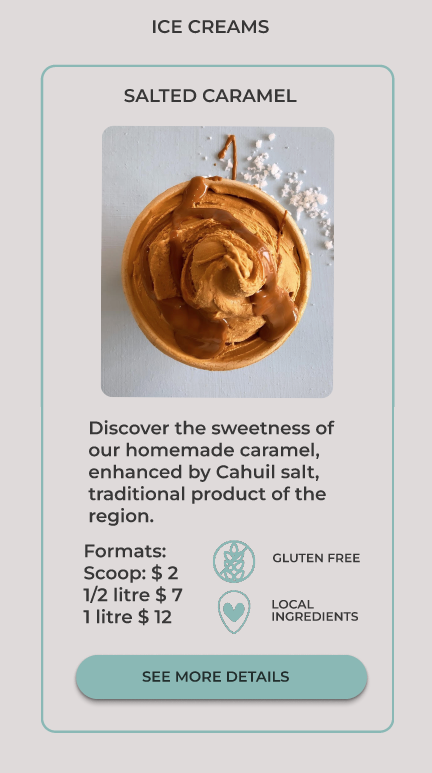
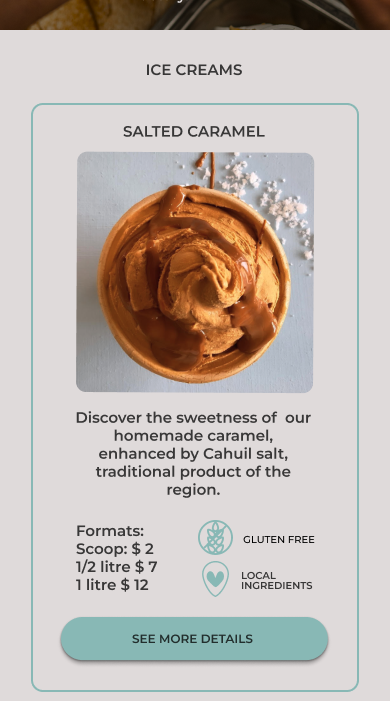
added corrected mockups

diff --git a/src/assets/icons/icons.jsx b/src/assets/icons/icons.jsx
@@ -29,7 +29,7 @@ export function GlutenFree () {
     viewBox="0 0 563 563" 
     fill="none" 
     xmlns="http://www.w3.org/2000/svg">
-        <path d="M98.3934 449.393L450.393 97.3934M324 130C324 157.614 304.972 180 281.5 180C258.028 180 239 157.614 239 130C239 102.386 260 50 281.5 37C302 47 324 102.386 324 130ZM369.944 255.788C351.824 276.627 322.777 281.034 305.064 265.632C287.352 250.231 287.682 220.853 305.801 200.014C323.921 179.176 374.141 153.425 398.896 157.722C407.804 178.72 388.063 234.95 369.944 255.788ZM256.182 200.112C274.324 220.931 274.686 250.308 256.991 265.729C239.295 281.15 210.243 276.775 192.1 255.957C173.958 235.139 155.373 181.848 163.041 157.922C185.065 151.993 238.039 179.294 256.182 200.112ZM370.944 379.953C352.824 400.792 323.777 405.199 306.064 389.797C288.352 374.396 288.682 345.018 306.801 324.179C324.921 303.341 375.141 277.589 399.896 281.887C408.804 302.885 389.063 359.115 370.944 379.953ZM257.182 324.277C275.324 345.095 275.686 374.473 257.991 389.894C240.295 405.315 211.243 400.94 193.1 380.122C174.958 359.304 156.373 306.013 164.041 282.087C186.065 276.158 239.039 303.459 257.182 324.277ZM371.944 503.953C353.824 524.792 324.777 529.199 307.064 513.797C289.352 498.396 289.682 469.018 307.801 448.179C325.921 427.341 376.141 401.589 400.896 405.887C409.804 426.885 390.063 483.115 371.944 503.953ZM258.182 448.277C276.324 469.095 276.686 498.473 258.991 513.894C241.295 529.315 212.243 524.94 194.1 504.122C175.958 483.304 157.373 430.013 165.041 406.087C187.065 400.158 240.039 427.459 258.182 448.277ZM548 281.5C548 428.684 428.684 548 281.5 548C134.316 548 15 428.684 15 281.5C15 134.316 134.316 15 281.5 15C428.684 15 548 134.316 548 281.5Z" stroke="#88B8B5" stroke-width="30"/>
+        <path d="M98.3934 449.393L450.393 97.3934M324 130C324 157.614 304.972 180 281.5 180C258.028 180 239 157.614 239 130C239 102.386 260 50 281.5 37C302 47 324 102.386 324 130ZM369.944 255.788C351.824 276.627 322.777 281.034 305.064 265.632C287.352 250.231 287.682 220.853 305.801 200.014C323.921 179.176 374.141 153.425 398.896 157.722C407.804 178.72 388.063 234.95 369.944 255.788ZM256.182 200.112C274.324 220.931 274.686 250.308 256.991 265.729C239.295 281.15 210.243 276.775 192.1 255.957C173.958 235.139 155.373 181.848 163.041 157.922C185.065 151.993 238.039 179.294 256.182 200.112ZM370.944 379.953C352.824 400.792 323.777 405.199 306.064 389.797C288.352 374.396 288.682 345.018 306.801 324.179C324.921 303.341 375.141 277.589 399.896 281.887C408.804 302.885 389.063 359.115 370.944 379.953ZM257.182 324.277C275.324 345.095 275.686 374.473 257.991 389.894C240.295 405.315 211.243 400.94 193.1 380.122C174.958 359.304 156.373 306.013 164.041 282.087C186.065 276.158 239.039 303.459 257.182 324.277ZM371.944 503.953C353.824 524.792 324.777 529.199 307.064 513.797C289.352 498.396 289.682 469.018 307.801 448.179C325.921 427.341 376.141 401.589 400.896 405.887C409.804 426.885 390.063 483.115 371.944 503.953ZM258.182 448.277C276.324 469.095 276.686 498.473 258.991 513.894C241.295 529.315 212.243 524.94 194.1 504.122C175.958 483.304 157.373 430.013 165.041 406.087C187.065 400.158 240.039 427.459 258.182 448.277ZM548 281.5C548 428.684 428.684 548 281.5 548C134.316 548 15 428.684 15 281.5C15 134.316 134.316 15 281.5 15C428.684 15 548 134.316 548 281.5Z" stroke="#88B8B5" strokeWidth="30"/>
         </svg> )
 }
 
@@ -39,11 +39,11 @@ export function LactoseFree () {
     viewBox="0 0 533 533" 
     fill="none" 
     xmlns="http://www.w3.org/2000/svg">
-        <path d="M268.656 235.196L265.131 233.561L261.761 235.498C255.1 239.329 249.023 245.692 243.737 252.913C238.383 260.226 233.5 268.892 229.372 277.882C221.21 295.654 215.5 315.8 215.5 330.448C215.5 360.038 237.116 385.5 265.5 385.5C293.884 385.5 315.5 360.038 315.5 330.448C315.5 315.783 309.528 294.917 301.259 276.824C297.074 267.668 292.153 258.89 286.819 251.679C281.605 244.63 275.476 238.36 268.656 235.196Z" stroke="#88B8B5" stroke-width="15"/>
-        <circle cx="266.5" cy="266.5" r="251.5" stroke="#88B8B5" stroke-width="30"/>
-        <line x1="83.3934" y1="434.393" x2="435.393" y2="82.3934" stroke="#88B8B5" stroke-width="30"/>
-        <path d="M345.012 151.315L378.137 190.248C381.599 194.317 383.5 199.485 383.5 204.828V326.793V453.093C383.5 464.611 374.8 474.27 363.344 475.47L270.295 485.219C268.761 485.379 267.214 485.382 265.679 485.226L168.729 475.389C157.241 474.223 148.5 464.551 148.5 453.004V326.793V205.222C148.5 199.701 150.53 194.372 154.204 190.251L188.299 151.999C190.209 149.856 191.867 147.5 193.24 144.979L217.456 100.5H220H257H268H309H314.692L341.181 145.91L347.66 142.131L341.181 145.91C342.296 147.821 343.578 149.63 345.012 151.315Z" stroke="#88B8B5" stroke-width="15"/>
-        <path d="M195.474 69.2736C193.476 55.69 204.005 43.5 217.734 43.5H314.194C328.445 43.5 339.106 56.5795 336.232 70.5372L334.585 78.5372C332.432 88.9954 323.225 96.5 312.547 96.5H218.911C207.749 96.5 198.274 88.3168 196.65 77.2736L195.474 69.2736Z" stroke="#88B8B5" stroke-width="15"/>
+        <path d="M268.656 235.196L265.131 233.561L261.761 235.498C255.1 239.329 249.023 245.692 243.737 252.913C238.383 260.226 233.5 268.892 229.372 277.882C221.21 295.654 215.5 315.8 215.5 330.448C215.5 360.038 237.116 385.5 265.5 385.5C293.884 385.5 315.5 360.038 315.5 330.448C315.5 315.783 309.528 294.917 301.259 276.824C297.074 267.668 292.153 258.89 286.819 251.679C281.605 244.63 275.476 238.36 268.656 235.196Z" stroke="#88B8B5" strokeWidth="15"/>
+        <circle cx="266.5" cy="266.5" r="251.5" stroke="#88B8B5" strokeWidth="30"/>
+        <line x1="83.3934" y1="434.393" x2="435.393" y2="82.3934" stroke="#88B8B5" strokeWidth="30"/>
+        <path d="M345.012 151.315L378.137 190.248C381.599 194.317 383.5 199.485 383.5 204.828V326.793V453.093C383.5 464.611 374.8 474.27 363.344 475.47L270.295 485.219C268.761 485.379 267.214 485.382 265.679 485.226L168.729 475.389C157.241 474.223 148.5 464.551 148.5 453.004V326.793V205.222C148.5 199.701 150.53 194.372 154.204 190.251L188.299 151.999C190.209 149.856 191.867 147.5 193.24 144.979L217.456 100.5H220H257H268H309H314.692L341.181 145.91L347.66 142.131L341.181 145.91C342.296 147.821 343.578 149.63 345.012 151.315Z" stroke="#88B8B5" strokeWidth="15"/>
+        <path d="M195.474 69.2736C193.476 55.69 204.005 43.5 217.734 43.5H314.194C328.445 43.5 339.106 56.5795 336.232 70.5372L334.585 78.5372C332.432 88.9954 323.225 96.5 312.547 96.5H218.911C207.749 96.5 198.274 88.3168 196.65 77.2736L195.474 69.2736Z" stroke="#88B8B5" strokeWidth="15"/>
         </svg> )
 }
 
@@ -53,37 +53,39 @@ export function SugarFree () {
     viewBox="0 0 533 533" 
     fill="none" 
     xmlns="http://www.w3.org/2000/svg">
-        <circle cx="266.5" cy="266.5" r="251.5" stroke="#88B8B5" stroke-width="30"/>
-        <line x1="83.3934" y1="434.393" x2="435.393" y2="82.3934" stroke="#88B8B5" stroke-width="30"/>
-        <rect x="93.135" y="262.528" width="127" height="127" rx="12.5" transform="rotate(7.16531 93.135 262.528)" stroke="#88B8B5" stroke-width="15"/>
-        <path fill-rule="evenodd" clip-rule="evenodd" d="M254.363 257.977L153.691 245.321C150.164 244.878 147.664 241.659 148.107 238.132C148.551 234.604 151.77 232.104 155.297 232.548L255.969 245.204C270.818 247.07 281.538 259.068 279.912 272.002L270.182 349.4C269.673 353.449 265.977 356.32 261.927 355.811C257.878 355.301 255.007 351.606 255.516 347.556L265.246 270.158C265.985 264.279 261.113 258.826 254.363 257.977Z" fill="#88B8B5"/>
-        <path fill-rule="evenodd" clip-rule="evenodd" d="M159.934 237.472C161.579 241.19 159.899 245.538 156.181 247.183L102.561 270.91C98.8434 272.555 94.4958 270.875 92.8506 267.157C91.2055 263.439 92.8857 259.091 96.6036 257.446L150.224 233.719C153.942 232.074 158.289 233.754 159.934 237.472Z" fill="#88B8B5"/>
-        <line x1="215.493" y1="285.564" x2="262.186" y2="251.564" stroke="#88B8B5" stroke-width="15"/>
-        <path fill-rule="evenodd" clip-rule="evenodd" d="M268.292 343.906C270.914 347.113 270.439 351.838 267.231 354.459L208.072 402.811C204.864 405.432 200.14 404.957 197.518 401.75C194.897 398.543 195.372 393.818 198.579 391.197L257.739 342.845C260.946 340.224 265.671 340.699 268.292 343.906Z" fill="#88B8B5"/>
-        <rect x="279.568" y="310.844" width="127" height="127" rx="12.5" transform="rotate(-8.88138 279.568 310.844)" stroke="#88B8B5" stroke-width="15"/>
-        <path fill-rule="evenodd" clip-rule="evenodd" d="M433.256 261.903L333.008 277.568C329.496 278.117 326.204 275.715 325.655 272.202C325.106 268.69 327.508 265.398 331.021 264.849L431.269 249.184C446.055 246.873 459.674 255.44 461.686 268.319L473.73 345.391C474.36 349.424 471.602 353.204 467.569 353.834C463.536 354.464 459.756 351.706 459.126 347.673L447.082 270.601C446.168 264.747 439.977 260.853 433.256 261.903Z" fill="#88B8B5"/>
-        <path fill-rule="evenodd" clip-rule="evenodd" d="M336.839 268.3C339.447 271.418 339.034 276.06 335.916 278.669L290.944 316.293C287.826 318.902 283.183 318.489 280.574 315.371C277.966 312.253 278.379 307.61 281.497 305.001L326.469 267.377C329.587 264.768 334.23 265.181 336.839 268.3Z" fill="#88B8B5"/>
-        <line x1="403.526" y1="299.16" x2="439.002" y2="253.578" stroke="#88B8B5" stroke-width="15"/>
-        <path fill-rule="evenodd" clip-rule="evenodd" d="M470.395 340.634C473.801 342.991 474.651 347.664 472.293 351.069L428.804 413.89C426.446 417.296 421.774 418.145 418.368 415.788C414.962 413.43 414.113 408.758 416.47 405.352L459.96 342.531C462.317 339.126 466.99 338.276 470.395 340.634Z" fill="#88B8B5"/>
-        <rect x="228.662" y="132.553" width="127" height="127" rx="12.5" transform="rotate(-9.75347 228.662 132.553)" stroke="#88B8B5" stroke-width="15"/>
-        <path fill-rule="evenodd" clip-rule="evenodd" d="M381.588 81.2787L281.59 98.4677C278.086 99.07 274.758 96.7179 274.155 93.2142C273.553 89.7105 275.905 86.382 279.409 85.7798L379.407 68.5907C394.157 66.0554 407.904 74.4144 410.112 87.2612L423.327 164.141C424.019 168.163 421.318 171.985 417.296 172.677C413.273 173.368 409.451 170.668 408.76 166.645L395.545 89.7653C394.541 83.9258 388.292 80.1262 381.588 81.2787Z" fill="#88B8B5"/>
-        <path fill-rule="evenodd" clip-rule="evenodd" d="M285.278 89.1416C287.934 92.2198 287.592 96.8682 284.514 99.5241L240.12 137.828C237.041 140.484 232.393 140.142 229.737 137.064C227.081 133.986 227.423 129.337 230.502 126.681L274.896 88.3771C277.974 85.7211 282.623 86.0635 285.278 89.1416Z" fill="#88B8B5"/>
-        <line x1="352.428" y1="118.984" x2="387.206" y2="72.8664" stroke="#88B8B5" stroke-width="15"/>
-        <path fill-rule="evenodd" clip-rule="evenodd" d="M419.921 159.435C423.362 161.74 424.282 166.399 421.977 169.84L379.449 233.316C377.143 236.757 372.484 237.677 369.043 235.372C365.602 233.066 364.682 228.408 366.987 224.967L409.515 161.491C411.821 158.05 416.479 157.129 419.921 159.435Z" fill="#88B8B5"/>
+        <circle cx="266.5" cy="266.5" r="251.5" stroke="#88B8B5" strokeWidth="30"/>
+        <line x1="83.3934" y1="434.393" x2="435.393" y2="82.3934" stroke="#88B8B5" strokeWidth="30"/>
+        <rect x="93.135" y="262.528" width="127" height="127" rx="12.5" transform="rotate(7.16531 93.135 262.528)" stroke="#88B8B5" strokeWidth="15"/>
+        <path fillRule="evenodd" clipRule="evenodd" d="M254.363 257.977L153.691 245.321C150.164 244.878 147.664 241.659 148.107 238.132C148.551 234.604 151.77 232.104 155.297 232.548L255.969 245.204C270.818 247.07 281.538 259.068 279.912 272.002L270.182 349.4C269.673 353.449 265.977 356.32 261.927 355.811C257.878 355.301 255.007 351.606 255.516 347.556L265.246 270.158C265.985 264.279 261.113 258.826 254.363 257.977Z" fill="#88B8B5"/>
+        <path fillRule="evenodd" clipRule="evenodd" d="M159.934 237.472C161.579 241.19 159.899 245.538 156.181 247.183L102.561 270.91C98.8434 272.555 94.4958 270.875 92.8506 267.157C91.2055 263.439 92.8857 259.091 96.6036 257.446L150.224 233.719C153.942 232.074 158.289 233.754 159.934 237.472Z" fill="#88B8B5"/>
+        <line x1="215.493" y1="285.564" x2="262.186" y2="251.564" stroke="#88B8B5" strokeWidth="15"/>
+        <path fillRule="evenodd" clipRule="evenodd" d="M268.292 343.906C270.914 347.113 270.439 351.838 267.231 354.459L208.072 402.811C204.864 405.432 200.14 404.957 197.518 401.75C194.897 398.543 195.372 393.818 198.579 391.197L257.739 342.845C260.946 340.224 265.671 340.699 268.292 343.906Z" fill="#88B8B5"/>
+        <rect x="279.568" y="310.844" width="127" height="127" rx="12.5" transform="rotate(-8.88138 279.568 310.844)" stroke="#88B8B5" strokeWidth="15"/>
+        <path fillRule="evenodd" clipRule="evenodd" d="M433.256 261.903L333.008 277.568C329.496 278.117 326.204 275.715 325.655 272.202C325.106 268.69 327.508 265.398 331.021 264.849L431.269 249.184C446.055 246.873 459.674 255.44 461.686 268.319L473.73 345.391C474.36 349.424 471.602 353.204 467.569 353.834C463.536 354.464 459.756 351.706 459.126 347.673L447.082 270.601C446.168 264.747 439.977 260.853 433.256 261.903Z" fill="#88B8B5"/>
+        <path fillRule="evenodd" clipRule="evenodd" d="M336.839 268.3C339.447 271.418 339.034 276.06 335.916 278.669L290.944 316.293C287.826 318.902 283.183 318.489 280.574 315.371C277.966 312.253 278.379 307.61 281.497 305.001L326.469 267.377C329.587 264.768 334.23 265.181 336.839 268.3Z" fill="#88B8B5"/>
+        <line x1="403.526" y1="299.16" x2="439.002" y2="253.578" stroke="#88B8B5" strokeWidth="15"/>
+        <path fillRule="evenodd" clipRule="evenodd" d="M470.395 340.634C473.801 342.991 474.651 347.664 472.293 351.069L428.804 413.89C426.446 417.296 421.774 418.145 418.368 415.788C414.962 413.43 414.113 408.758 416.47 405.352L459.96 342.531C462.317 339.126 466.99 338.276 470.395 340.634Z" fill="#88B8B5"/>
+        <rect x="228.662" y="132.553" width="127" height="127" rx="12.5" transform="rotate(-9.75347 228.662 132.553)" stroke="#88B8B5" strokeWidth="15"/>
+        <path fillRule="evenodd" clipRule="evenodd" d="M381.588 81.2787L281.59 98.4677C278.086 99.07 274.758 96.7179 274.155 93.2142C273.553 89.7105 275.905 86.382 279.409 85.7798L379.407 68.5907C394.157 66.0554 407.904 74.4144 410.112 87.2612L423.327 164.141C424.019 168.163 421.318 171.985 417.296 172.677C413.273 173.368 409.451 170.668 408.76 166.645L395.545 89.7653C394.541 83.9258 388.292 80.1262 381.588 81.2787Z" fill="#88B8B5"/>
+        <path fillRule="evenodd" clipRule="evenodd" d="M285.278 89.1416C287.934 92.2198 287.592 96.8682 284.514 99.5241L240.12 137.828C237.041 140.484 232.393 140.142 229.737 137.064C227.081 133.986 227.423 129.337 230.502 126.681L274.896 88.3771C277.974 85.7211 282.623 86.0635 285.278 89.1416Z" fill="#88B8B5"/>
+        <line x1="352.428" y1="118.984" x2="387.206" y2="72.8664" stroke="#88B8B5" strokeWidth="15"/>
+        <path fillRule="evenodd" clipRule="evenodd" d="M419.921 159.435C423.362 161.74 424.282 166.399 421.977 169.84L379.449 233.316C377.143 236.757 372.484 237.677 369.043 235.372C365.602 233.066 364.682 228.408 366.987 224.967L409.515 161.491C411.821 158.05 416.479 157.129 419.921 159.435Z" fill="#88B8B5"/>
         </svg>)
 }
 
 export function Vegan () {
     return (<svg 
     width="40" 
-    viewBox="0 0 538 419" 
+    viewBox="0 0 538 533" 
     fill="none" 
     xmlns="http://www.w3.org/2000/svg">
-        <path d="M271.465 159C235.79 101.032 141.472 51.167 86.7222 57.3607C59.6458 113.162 84.4725 250.979 120.148 308.947C155.823 366.915 214.105 395.127 262 364" stroke="#88B8B5" stroke-width="15"/>
-        <path d="M458.308 59.5344L456.202 55.9277L452.114 55.7941C435.459 55.25 416.008 60.3522 396.033 68.7189C375.939 77.1355 354.754 89.0957 334.455 102.861C294.027 130.276 256.155 165.514 237.214 195.476C199.326 255.412 207.713 332.89 259.657 367.566C311.602 402.242 383.897 378.624 421.785 318.689C440.735 288.712 457.147 236.92 465.325 186.907C469.431 161.792 471.521 136.779 470.742 114.807C469.971 93.0657 466.367 73.3384 458.308 59.5344Z" stroke="#88B8B5" stroke-width="15"/>
-        <path d="M358.586 190.026C360.124 187.126 363.803 186.147 366.58 187.897C369.02 189.435 369.908 192.565 368.638 195.155L325.216 283.76C324.821 284.566 324.34 285.327 323.783 286.03L263.415 362.096C261.631 364.345 258.438 364.889 256.01 363.358C253.235 361.609 252.539 357.866 254.501 355.236L310.095 280.714C310.934 279.589 311.686 278.401 312.344 277.161L358.586 190.026Z" stroke="#88B8B5" stroke-width="15"/>
-        <path d="M216.721 267L163.59 194.874C161.558 192.115 161.968 188.26 164.536 185.991V185.991C167.436 183.428 171.907 183.89 174.222 186.992L216.721 243.95" stroke="#88B8B5" stroke-width="15"/>
-        </svg> )
+        <path d="M271.465 230C235.79 172.032 141.472 122.167 86.7222 128.361C59.6458 184.162 84.4725 321.979 120.148 379.947C155.823 437.915 214.105 466.127 262 435" stroke="#88B8B5" strokeWidth="15"/>
+        <path d="M458.308 130.534L456.202 126.928L452.114 126.794C435.459 126.25 416.008 131.352 396.033 139.719C375.939 148.136 354.754 160.096 334.455 173.861C294.027 201.276 256.155 236.514 237.214 266.476C199.326 326.412 207.713 403.89 259.657 438.566C311.602 473.242 383.897 449.624 421.785 389.689C440.735 359.712 457.147 307.92 465.325 257.907C469.431 232.792 471.521 207.779 470.742 185.807C469.971 164.066 466.367 144.338 458.308 130.534Z" stroke="#88B8B5" strokeWidth="15"/>
+        <path d="M358.586 261.026C360.124 258.126 363.803 257.147 366.58 258.897C369.02 260.435 369.908 263.565 368.638 266.155L325.216 354.76C324.821 355.566 324.34 356.327 323.783 357.03L263.415 433.096C261.631 435.345 258.438 435.889 256.01 434.358C253.235 432.609 252.539 428.866 254.501 426.236L310.095 351.714C310.934 350.589 311.686 349.401 312.344 348.161L358.586 261.026Z" stroke="#88B8B5" strokeWidth="15"/>
+        <path d="M216.721 338L163.59 265.874C161.558 263.115 161.968 259.26 164.536 256.991V256.991C167.436 254.428 171.907 254.89 174.222 257.992L216.721 314.95" stroke="#88B8B5" strokeWidth="15"/>
+        <circle cx="271.5" cy="266.5" r="251.5" stroke="#88B8B5" strokeWidth="30"/>
+        </svg>
+        )
 }
 
 export function LocalIngredient () {
@@ -92,10 +94,10 @@ export function LocalIngredient () {
     viewBox="0 0 286 382" 
     fill="none" 
     xmlns="http://www.w3.org/2000/svg">
-        <path d="M139.623 372.488L142.721 373.734L145.72 372.266C180.175 355.395 213.098 313.728 237.238 268.95C261.45 224.04 277.978 173.852 278.095 138.283C278.333 66.2517 217.832 8.16642 143.603 7.92112C69.3743 7.67583 8.49044 65.36 8.25241 137.391C8.1348 172.98 25.0893 225.122 49.3531 271.071C61.5566 294.181 75.7904 316.076 91.0043 333.856C106.125 351.527 122.669 365.67 139.623 372.488Z" stroke="#88B8B5" stroke-width="15"/>
+        <path d="M139.623 372.488L142.721 373.734L145.72 372.266C180.175 355.395 213.098 313.728 237.238 268.95C261.45 224.04 277.978 173.852 278.095 138.283C278.333 66.2517 217.832 8.16642 143.603 7.92112C69.3743 7.67583 8.49044 65.36 8.25241 137.391C8.1348 172.98 25.0893 225.122 49.3531 271.071C61.5566 294.181 75.7904 316.076 91.0043 333.856C106.125 351.527 122.669 365.67 139.623 372.488Z" stroke="#88B8B5" strokeWidth="15"/>
         <path d="M74.984 197.98C61.7546 185.623 57.801 161.134 66.1534 143.282C74.5057 125.43 92.0012 120.975 105.231 133.332C116.954 144.281 142.373 215.287 147.02 246.74C147.96 253.101 145.335 258.982 140.641 257.612C122.873 252.427 86.3385 208.585 74.984 197.98Z" fill="#88B8B5"/>
-        <path fill-rule="evenodd" clip-rule="evenodd" d="M68.4705 211.902C48.4897 193.239 43.5973 157.662 55.1386 132.994C66.68 108.326 91.7631 100.747 111.744 119.41C114.941 122.396 117.675 126.448 119.817 130.026C122.101 133.842 124.398 138.295 126.634 143.027C131.111 152.506 135.793 164.065 140.149 176.018C148.701 199.484 156.879 226.892 159.561 245.05C160.621 252.226 159.839 260.056 156.558 266.16C152.979 272.819 146.652 276.698 139.19 274.52C132.386 272.535 125.088 267.401 118.697 262.158C112.009 256.672 104.988 249.939 98.4357 243.305C91.9286 236.716 85.6498 229.983 80.4059 224.36L80.2379 224.18C74.734 218.278 70.8034 214.08 68.4705 211.902ZM66.1534 143.282C57.801 161.134 61.7546 185.623 74.984 197.98C77.8426 200.65 82.2971 205.427 87.6464 211.163C103.545 228.21 127.346 253.733 140.641 257.612C145.335 258.982 147.96 253.101 147.02 246.74C142.373 215.287 116.954 144.281 105.231 133.332C92.0012 120.975 74.5057 125.43 66.1534 143.282Z" fill="#88B8B5"/>
+        <path fillRule="evenodd" clipRule="evenodd" d="M68.4705 211.902C48.4897 193.239 43.5973 157.662 55.1386 132.994C66.68 108.326 91.7631 100.747 111.744 119.41C114.941 122.396 117.675 126.448 119.817 130.026C122.101 133.842 124.398 138.295 126.634 143.027C131.111 152.506 135.793 164.065 140.149 176.018C148.701 199.484 156.879 226.892 159.561 245.05C160.621 252.226 159.839 260.056 156.558 266.16C152.979 272.819 146.652 276.698 139.19 274.52C132.386 272.535 125.088 267.401 118.697 262.158C112.009 256.672 104.988 249.939 98.4357 243.305C91.9286 236.716 85.6498 229.983 80.4059 224.36L80.2379 224.18C74.734 218.278 70.8034 214.08 68.4705 211.902ZM66.1534 143.282C57.801 161.134 61.7546 185.623 74.984 197.98C77.8426 200.65 82.2971 205.427 87.6464 211.163C103.545 228.21 127.346 253.733 140.641 257.612C145.335 258.982 147.96 253.101 147.02 246.74C142.373 215.287 116.954 144.281 105.231 133.332C92.0012 120.975 74.5057 125.43 66.1534 143.282Z" fill="#88B8B5"/>
         <path d="M174.838 137.923C186.687 123.031 204.261 123.616 214.091 139.23C223.921 154.843 222.283 179.574 210.434 194.466C200.263 207.249 165.502 251.39 146.636 259.028C141.737 261.012 137.97 255.456 138.711 248.387C141.886 218.113 164.591 150.801 174.838 137.923Z" fill="#88B8B5"/>
-        <path fill-rule="evenodd" clip-rule="evenodd" d="M166.697 124.991C183.44 103.949 208.946 104.141 223.551 127.341C238.156 150.54 235.318 186.355 218.575 207.397C218.314 207.726 218.035 208.076 217.74 208.448C212.33 215.253 201.335 229.084 189.291 242.367C182.942 249.371 176.135 256.407 169.561 262.267C163.176 267.96 156.221 273.266 149.72 275.898C143.021 278.611 136.274 276.214 131.658 269.82C127.219 263.672 125.472 254.905 126.366 246.382C128.24 228.513 135.405 202.113 142.839 179.649C146.652 168.129 150.747 157.005 154.634 147.774C158.255 139.176 162.473 130.299 166.697 124.991ZM214.091 139.23C204.261 123.616 186.687 123.031 174.838 137.923C164.591 150.801 141.886 218.113 138.711 248.387C137.97 255.456 141.737 261.012 146.636 259.028C165.026 251.582 198.521 209.451 209.618 195.491C209.905 195.13 210.177 194.788 210.434 194.466C222.283 179.574 223.921 154.843 214.091 139.23Z" fill="#88B8B5"/>
+        <path fillRule="evenodd" clipRule="evenodd" d="M166.697 124.991C183.44 103.949 208.946 104.141 223.551 127.341C238.156 150.54 235.318 186.355 218.575 207.397C218.314 207.726 218.035 208.076 217.74 208.448C212.33 215.253 201.335 229.084 189.291 242.367C182.942 249.371 176.135 256.407 169.561 262.267C163.176 267.96 156.221 273.266 149.72 275.898C143.021 278.611 136.274 276.214 131.658 269.82C127.219 263.672 125.472 254.905 126.366 246.382C128.24 228.513 135.405 202.113 142.839 179.649C146.652 168.129 150.747 157.005 154.634 147.774C158.255 139.176 162.473 130.299 166.697 124.991ZM214.091 139.23C204.261 123.616 186.687 123.031 174.838 137.923C164.591 150.801 141.886 218.113 138.711 248.387C137.97 255.456 141.737 261.012 146.636 259.028C165.026 251.582 198.521 209.451 209.618 195.491C209.905 195.13 210.177 194.788 210.434 194.466C222.283 179.574 223.921 154.843 214.091 139.23Z" fill="#88B8B5"/>
         </svg> )
 }

diff --git a/src/components/buenamano/BuenaMano.jsx b/src/components/buenamano/BuenaMano.jsx
@@ -2,6 +2,10 @@ import { ArrowBack, GlutenFree, LactoseFree, SugarFree, Vegan, LocalIngredient }
 import { Link } from "wouter";
 import BuenamanoMockUp from '/Buenamano-hero.png';
 import ProductCard from '/product-card.png';
+import HeroScreen from '/hero-screen.png';
+import AboutScreen from '/about-screen.png';
+import LocalsScreen from '/locals-screen.png';
+import ContactForm from '/contact-form.png';
 
 function Buenamano () {
     return (
@@ -33,19 +37,25 @@ function Buenamano () {
                 <li>To have a direct communication channel for B2B.</li>
                  </p>
         </div>
-        <div className="content-box mx-10 my-5 flex">
-            <div className="inner-text-container w-3/5">
+        <div className="content-box mx-10 my-5 flex flex-col ">
+            <div className="inner-text-container ">
            <p> Key solutions</p>
-           <ul className="main-font  text-justify">
+           <ul className="main-font text-justify">
             <li>Creation of a catalog of products, accessible from different components of the website. Each product card contains the list of ingredients, and icons to identify vegan, lactose free, sugar free and gluten free products. </li>
             <li>Icons identifying the use of regional ingredients, and brief description of the story/inspiration for the product.</li>
             <li>Special component dedicated to Hotels, Restaurants and Cafés, facilitating a direct and professional B2B communication.</li>
             <li>Showcase the story and values of the company, improving their online presence.</li>
            </ul>
            </div>
-           <div className="inner-img-container w-1/5 ml-10">
-           <div className="flex gap-5">
-            <img src={ProductCard} alt="" className="rounded-2xl" />
+           <div className="inner-imgs-container ml-10 flex flex-col gap-10 my-10 ">
+            <div className="landing-page-imgs flex gap-2">
+                <div><img src={HeroScreen} alt="" className="rounded-xl h-96" /></div>
+                <div><img src={LocalsScreen} alt="" className="rounded-xl  h-96"/></div>
+               <div><img src={AboutScreen} alt="" className="rounded-xl h-96 "/></div>
+            </div>
+            <div className=" flex gap-5 ">
+                <div className="flex gap-5">
+            <img src={ProductCard} alt="" className="rounded-xl mb-5 h-96 " />
             <div className="food-icons flex flex-col gap-2">
                 <div className=" icon-description flex gap-2"> <GlutenFree /> 
                 <p>GLUTEN FREE</p></div>
@@ -59,7 +69,10 @@ function Buenamano () {
                 <p>LOCAL INGREDIENTS</p></div>
             </div>
             </div>
-
+            <div className="">
+                <img src={ContactForm} alt="" className="rounded-xl h-96"/>
+            </div>
+            </div>
            </div>
         </div>
         <div className="content-box mx-10 my-5">
